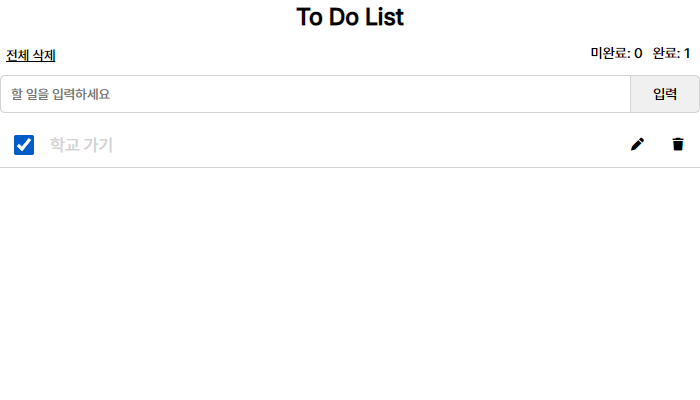
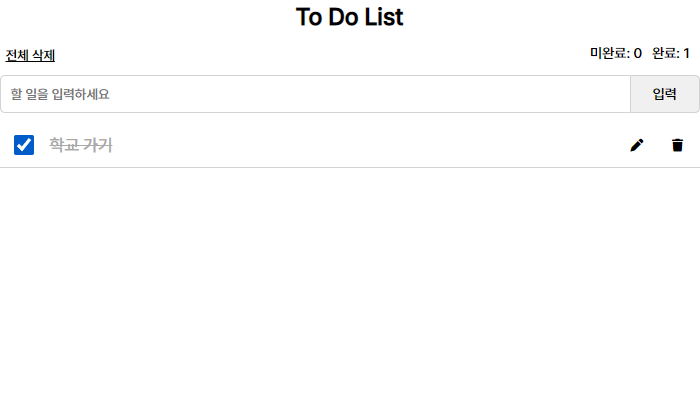
투두 리스트 수정 시 아이콘 변경, 할 일 완료 시 취소선 그려지게 구현

diff --git a/page/ToDoList/toDoList.js b/page/ToDoList/toDoList.js
@@ -4,15 +4,17 @@ const listBody = document.querySelector(".list-body");
 const listComplete = document.getElementById('incomplete')
 const listIncomplete = document.getElementById('complete')
 
-let toDoList = []; 
+let toDoList = [];
 
-// 할 일 체크 확인
+// 할 일 상태에 따라 색 변경
 function listChecked(list, label) {
   if (list.checked) {
-    label.style.color = '#D3D3D3';
+    label.style.color = 'darkgray';
+    label.style.textDecoration = 'line-through';
   }
   else {
     label.style.color = 'inherit';
+    label.style.textDecoration = 'none';
   }
 }
 
@@ -61,10 +63,11 @@ function showList(list) {
   modInput.value = list.toDo;
   modInput.setAttribute('class', 'mod-input');
   modifyBtn.setAttribute('id', 'mod-btn');
-  modifyBtn.setAttribute('class', 'fa-solid fa-pen');
+  modifyBtn.innerHTML = '<i class="fa-solid fa-pen"></i>';
   modifyBtn.onclick = () => {
     if (modInput.style.display == "none") {
       modInput.style.display = "block";
+      modifyBtn.innerHTML = '<i class="fa-solid fa-check"></i>';
       label.innerHTML = "";
     }
     else {
@@ -72,6 +75,7 @@ function showList(list) {
         return alert("할 일을 입력해주세요!");
       }
       modInput.style.display = "none";
+      modifyBtn.innerHTML = '<i class="fa-solid fa-pen"></i>';
       label.innerHTML = modInput.value;
       label.style.color = 'inherit';
       list.toDo = modInput.value;
@@ -92,6 +96,7 @@ function showList(list) {
     for (let i = 0; i < toDoList.length; i++) {
       if (toDoList[i].id == id) toDoList.splice(i, 1);
     }
+    console.log(t_list);
     listBody.removeChild(t_list);
     localStorage.setItem('toDoList', JSON.stringify(toDoList));
     completeCount();

diff --git a/page/ToDoList/toDoList.css b/page/ToDoList/toDoList.css
@@ -55,6 +55,7 @@ td {
   position: relative;
   display: flex;
   min-height: 45px;
+  width: 100%;
   margin-bottom: 10px;
   padding-left: 40px;
   padding-right: 10px;
@@ -79,13 +80,14 @@ td {
 }
 
 .mod-input {
-  width: 80%;
+  width: 1000px;
   padding: 5px;
   margin: 5px;
   font-size: 17px;
-  border: 1px solid #D3D3D3;
-  border-radius: 5px;
+  border: none;
+  border-bottom: 2px solid #D3D3D3;
   outline: none;
+  overflow: visible;
   z-index: 5;
 }
 
@@ -95,7 +97,7 @@ td {
   border: none;
   border-radius: 5px;
   background-color: inherit;
-  
+
   z-index: 5;
 }
 

diff --git a/page/LandingPage/landingPage.html b/page/LandingPage/landingPage.html
@@ -130,7 +130,7 @@
     const box = document.getElementsByClassName('card-box');
     const dots = document.getElementsByClassName('slickdot');
     box[0].style.opacity = 1; // default
-
+    box[0].style.zIndex = "999";
     function scrollFunc() {
       let curScroll = document.documentElement.scrollTop;
       console.log(curScroll);

diff --git a/page/LandingPage/landingPage.css b/page/LandingPage/landingPage.css
@@ -82,6 +82,7 @@ body {
   flex-direction: column;
   top: 45%;
   right: 30px;
+  z-index: 999;
 
 }
 
